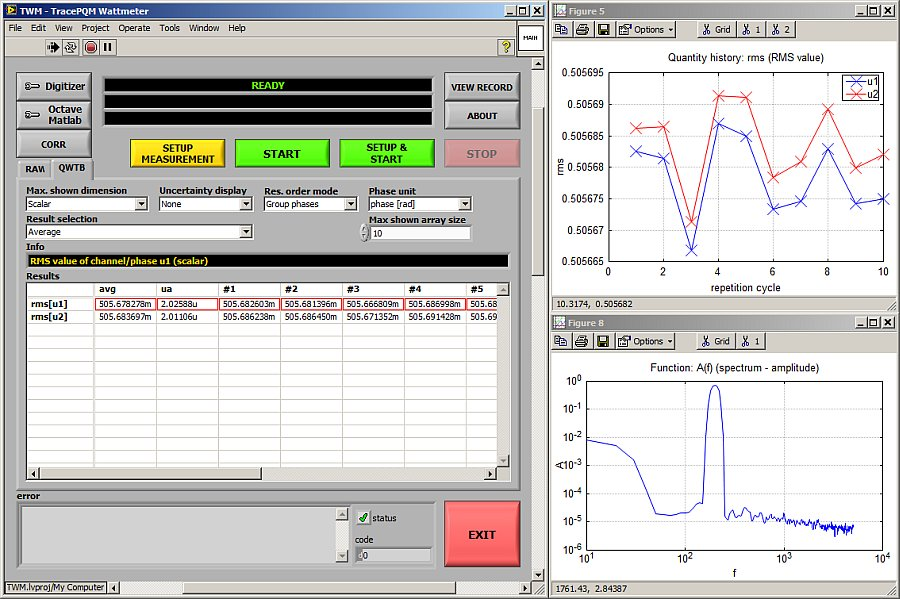
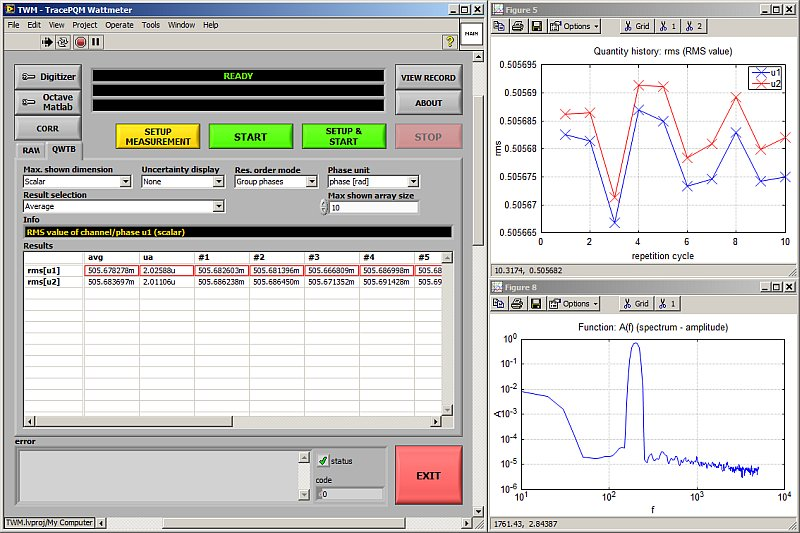
fix: readme

diff --git a/README.md b/README.md
@@ -18,7 +18,7 @@ The TWM concept is modular, so it can be simply extended by various digitizer dr
 
 Modularity of the Power and PQ calculation algorithms used by the TWM is ensured by the [QWTB](https://qwtb.github.io/qwtb/) toolbox. 
 
-<img src="./imgz/gui_v2_small.jpg" alt="GUI" width=900 height=599>
+<img src="./imgz/gui_v2_small.jpg">
 
 
 ## Status
